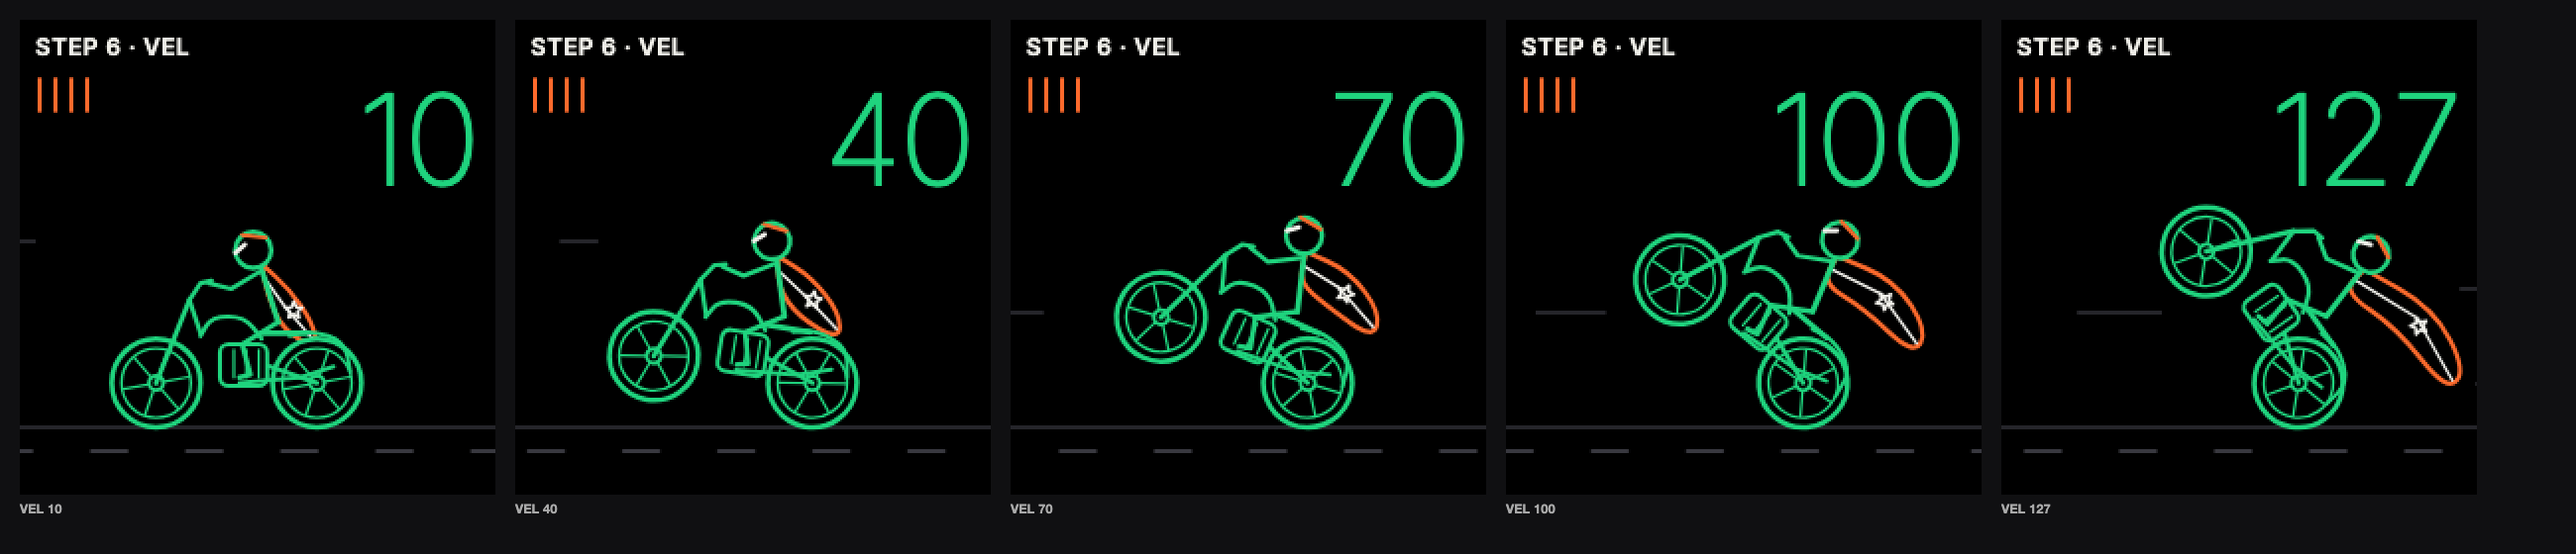
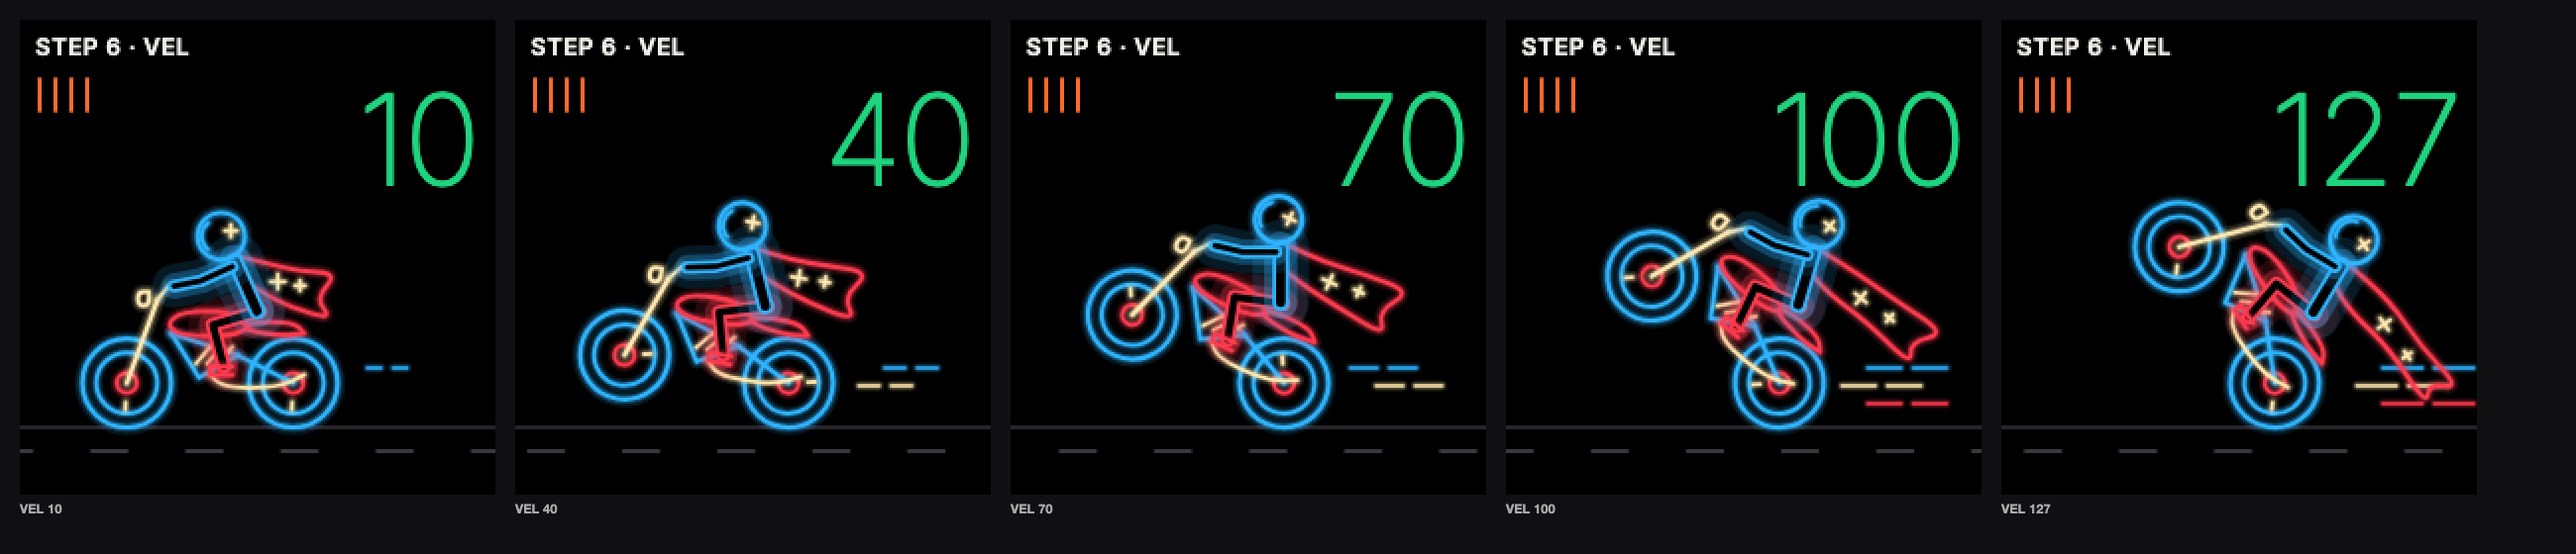
VEL rider mock-up version 2: the neon style of the owner's reference, riding left

diff --git a/mockups/fizz-vel-rider.html b/mockups/fizz-vel-rider.html
@@ -4,6 +4,7 @@
 <meta charset="utf-8">
 <meta name="viewport" content="width=device-width, initial-scale=1">
 <title>FIZZ velocity rider</title>
+<!-- version 2 (2026-10-21): the neon style of the owner's reference, png/fizz-vel-rider-reference.png, riding left -->
 <!-- FIZZ: the VEL picture as a caped stunt motorcyclist (the owner, 2026-10-21, in place of the squirrel): both wheels on
      the road at low velocity, the front lifting into a wheelie as the velocity rises, the steepest at 127; the cape
      droops when slow and streams flat when fast; the road dashes and the speed lines run with the velocity.
@@ -38,57 +39,92 @@ function circ(c, x, y, r, col, lw = 1.6, fill = null) { c.save(); c.beginPath();
   if (col) { c.strokeStyle = col; c.lineWidth = lw; c.stroke(); } c.restore(); }
 function star(c, x, y, r, col) { const p = []; for (let k = 0; k < 10; k++) { const a = -Math.PI / 2 + k * Math.PI / 5, rr = k % 2 ? r * 0.45 : r; p.push(x + Math.cos(a) * rr, y + Math.sin(a) * rr); } path(c, p, col, 1.1, true); }
 
-function wheel(c, x, y, spin, col) {                  /* a spoked wheel, turning */
-  circ(c, x, y, 16, col, 1.8, C.bg); circ(c, x, y, 12.5, col, 1); circ(c, x, y, 2.6, col, 1.4);
-  for (let k = 0; k < 6; k++) { const a = spin + k * TAU / 6; path(c, [x + Math.cos(a) * 3, y + Math.sin(a) * 3, x + Math.cos(a) * 12, y + Math.sin(a) * 12], col, 0.9); }
+/* the neon look (the owner's reference, mockups/png/fizz-vel-rider-reference.png): blue bike and helmet, red cape and
+   legs, cream engine, fork and stars; every line glows (two wide faint strokes under the line itself) */
+const N = { blue: '#2fb4ff', red: '#ff3b4f', cream: '#ffe7b0' };
+function glowStroke(c, col, lw, draw) {
+  [[lw * 3.4, 0.14], [lw * 2.0, 0.3], [lw, 1]].forEach(([w, a]) => {
+    c.save(); c.globalAlpha *= a; c.strokeStyle = col; c.lineWidth = w; c.lineCap = 'round'; c.lineJoin = 'round';
+    c.beginPath(); draw(); c.stroke(); c.restore(); });
 }
-/* the bike and rider in their own frame: the rear hub at (0, 0), the front hub at (58, 0), the road at y = 16.
-   u: the velocity 0..1 (the cape's flow), t: time */
-function rider(c, u, t, col) {
+function nLine(c, pts, col, lw = 1.5) { glowStroke(c, col, lw, () => { c.moveTo(pts[0], pts[1]); for (let i = 2; i < pts.length; i += 2) c.lineTo(pts[i], pts[i + 1]); }); }
+function nCirc(c, x, y, r, col, lw = 1.5) { glowStroke(c, col, lw, () => c.arc(x, y, r, 0, TAU)); }
+function nArc(c, x, y, r, a0, a1, col, lw = 1.5) { glowStroke(c, col, lw, () => c.arc(x, y, r, a0, a1)); }
+function nCurve(c, pts, col, lw = 1.5, close = false) {
+  const n = pts.length / 2, P = i => [pts[(i % n) * 2], pts[(i % n) * 2 + 1]];
+  glowStroke(c, col, lw, () => { c.moveTo(...P(0));
+    for (let i = 0; i < (close ? n : n - 1); i++) { const [x0, y0] = P(i), [x1, y1] = P(i + 1); c.quadraticCurveTo(x0, y0, (x0 + x1) / 2, (y0 + y1) / 2); }
+    if (!close) c.lineTo(...P(n - 1)); else c.closePath(); });
+}
+/* a limb as a neon tube: a wide line in its colour with a black core, so it reads as two parallel lines */
+function nTube(c, pts, col, w = 5.2) {
+  nLine(c, pts, col, w);
+  c.save(); c.strokeStyle = C.bg; c.lineWidth = w - 2.6; c.lineCap = 'round'; c.lineJoin = 'round';
+  c.beginPath(); c.moveTo(pts[0], pts[1]); for (let i = 2; i < pts.length; i += 2) c.lineTo(pts[i], pts[i + 1]); c.stroke(); c.restore();
+}
+function sparkle(c, x, y, r, col) { nLine(c, [x - r, y, x + r, y], col, 1.2); nLine(c, [x, y - r, x, y + r], col, 1.2); }
+
+function wheel(c, x, y, spin) {                       /* two blue rings, a red hub; a cream tick turning on the inner ring */
+  nCirc(c, x, y, 16, N.blue, 1.6); nCirc(c, x, y, 11, N.blue, 1.4); nCirc(c, x, y, 3.6, N.red, 1.4);
+  nLine(c, [x + Math.cos(spin) * 7, y + Math.sin(spin) * 7, x + Math.cos(spin) * 9.5, y + Math.sin(spin) * 9.5], N.cream, 1.3);
+}
+/* the bike and rider in their own frame, facing right: the rear hub at (0, 0), the front hub at (60, 0), the road at
+   y = 16. u: the velocity 0..1, t: time */
+function rider(c, u, t) {
   const flow = lerp(0.15, 1, u), flap = Math.sin(t * (6 + 10 * u)) * (1 + 3 * u);
-  /* the cape, behind everything: from the shoulders, drooping when slow, streaming flat and waving when fast */
-  const sx = 19, sy = -41, L = 34 + 16 * u;
-  const tipX = sx - L * (0.35 + 0.65 * flow), tipY = sy + L * (1 - flow) * 0.9 + flap;
-  const midX = (sx + tipX) / 2, midY = (sy + tipY) / 2 - 4 * flow + flap * 0.6;
-  curve(c, [sx + 1, sy - 2, midX, midY - 6, tipX, tipY - 7, tipX - 2, tipY + 3, midX + 2, midY + 9, sx - 1, sy + 9], C.k4, 1.6, true, C.bg);
-  path(c, [sx, sy + 3, midX + 1, midY + 1, tipX, tipY - 1], C.k3, 1);              /* a white stripe down it */
-  star(c, midX - 2, midY + 2, 3.2, C.k3);
-  /* the bike */
-  wheel(c, 0, 0, -t * (4 + 30 * u), col); wheel(c, 58, 0, -t * (4 + 30 * u), col);
-  curve(c, [-12, -4, -10, -15, 2, -19, 10, -17], col, 1.4);                         /* the rear fender */
-  path(c, [0, 0, 20, -7], col, 1.6);                                                 /* the swingarm */
-  c.save(); c.beginPath(); c.roundRect(18, -14, 17, 15, 3); c.fillStyle = C.bg; c.fill(); c.strokeStyle = col; c.lineWidth = 1.5; c.stroke(); c.restore();   /* the engine */
-  for (let k = 0; k < 3; k++) path(c, [21 + k * 4.5, -12, 21 + k * 4.5, -2], col, 0.9);
-  path(c, [28, 0, 6, -2, -6, -6], col, 1.4);                                         /* the exhaust */
-  curve(c, [20, -16, 26, -24, 38, -24, 42, -17], col, 1.6, false, null);            /* the tank */
-  path(c, [4, -18, 20, -18], col, 2);                                                /* the seat */
-  path(c, [58, 0, 46, -30], col, 1.8);                                               /* the fork, raked */
-  path(c, [42, -18, 46, -30, 42, -36, 38, -37], col, 1.6);                           /* the bars, high */
-  /* the rider: a leg to the peg, the body leaning in, arms to the bars, the helmet with its stripe and visor */
-  path(c, [14, -22, 27, -14, 24, -3, 28, -2], col, 1.8);                             /* thigh, shin, boot */
-  path(c, [14, -22, 20, -41], col, 2);                                               /* the back */
-  path(c, [21, -40, 31, -34, 39, -36], col, 1.6);                                    /* the arm */
-  circ(c, 23, -48, 6.5, col, 1.7, C.bg);                                             /* the helmet */
-  path(c, [18.5, -52.5, 27, -53.5], C.k4, 1.4);                                      /* its stripe */
-  path(c, [26, -50, 29.5, -47], C.k3, 1.6);                                          /* the visor */
+  /* the cape, behind everything: a flag from the shoulders streaming back at shoulder height, its end forked; slow it
+     hangs a little and is short, fast it is long, flat and waving; two cream sparkles on it */
+  const sx = 20, sy = -43, L = 30 + 26 * u, sag = (1 - u) * 14;
+  const w1 = Math.sin(t * (5 + 9 * u)) * (1 + 2.5 * u), w2 = Math.sin(t * (5 + 9 * u) + 1.7) * (1.5 + 3 * u);
+  const ex = sx - L, ey = sy + sag;                                  /* the far end's middle */
+  nCurve(c, [sx + 1, sy - 3,                                         /* the top edge, back from the neck */
+             sx - L * 0.35, sy - 5 + sag * 0.3 + w1, sx - L * 0.7, sy - 6 + sag * 0.7 + w2,
+             ex - 4, ey - 9 + w2,                                    /* the upper point of the fork */
+             ex + 4, ey - 1 + w1 * 0.5,                              /* the notch */
+             ex - 2, ey + 6 + w1,                                    /* the lower point */
+             sx - L * 0.6, sy + 5 + sag * 0.75 + w1, sx - L * 0.25, sy + 6 + sag * 0.3,
+             sx - 1, sy + 5], N.red, 1.5, true);
+  sparkle(c, sx - L * 0.45, sy + sag * 0.45 + w1 * 0.5, 2.6, N.cream);
+  sparkle(c, sx - L * 0.7, sy - 1 + sag * 0.7 + w2 * 0.5, 1.8, N.cream);
+  /* the bike: wheels, the blue frame, the red tank and seat, the cream engine fins, exhaust, fork and lamp */
+  const spin = t * (3 + 26 * u);
+  wheel(c, 0, 0, spin); wheel(c, 60, 0, spin);
+  nLine(c, [0, 0, 20, -10, 44, -18], N.blue, 1.5);                       /* swingarm and backbone */
+  nLine(c, [44, -18, 34, -2, 20, -10], N.blue, 1.5);                     /* the down tube */
+  nCurve(c, [16, -20, 22, -26, 40, -26, 46, -21, 40, -17, 22, -17], N.red, 1.5, true);   /* the tank */
+  nCurve(c, [-4, -18, 0, -22, 16, -22, 18, -19, 4, -17], N.red, 1.5, true);              /* the seat */
+  for (let k = 0; k < 3; k++) nLine(c, [22 + k * 4, -13, 27 + k * 4, -7], N.cream, 1.2);   /* the fins */
+  nCurve(c, [30, -3, 26, 1, 16, 2, 4, 1, -4, -3], N.cream, 1.3);         /* the exhaust */
+  nLine(c, [60, 0, 49, -30], N.cream, 1.6);                              /* the fork */
+  nLine(c, [49, -30, 45, -35, 41, -35], N.cream, 1.4);                   /* the bars */
+  nCurve(c, [52, -33, 56, -33, 56, -28, 52, -28], N.cream, 1.4, true);   /* the lamp */
+  /* the rider: red legs as tubes, a red boot, the blue body and arm, the blue helmet with a star and its visor */
+  nTube(c, [12, -26, 29, -21, 25, -6], N.red);
+  nLine(c, [22, -6, 30, -6, 30, -3, 22, -3], N.red, 1.4);
+  nTube(c, [13, -26, 21, -44], N.blue, 6);
+  nTube(c, [22, -42, 33, -37, 43, -35], N.blue, 4.6);
+  nCirc(c, 26, -53, 8.5, N.blue, 1.6);
+  nArc(c, 27, -53, 6, -0.9, 0.9, N.blue, 1.3);
+  sparkle(c, 22.5, -55, 2.2, N.cream);
 }
 
 function screen(c, vel, t, o = {}) {                 /* the rider faces left: the front wheel lifts on the left */
   c.fillStyle = C.bg; c.fillRect(0, 0, 240, 240);
   T(c, 'STEP 6 · VEL', 8, 18, { s: 12, w: 600, ls: 0.8, col: C.k3 });
   const u = clamp(vel / 127, 0, 1), pitch = Math.pow(clamp((u - 0.12) / 0.88, 0, 1), 1.15) * (55 * Math.PI / 180);
-  const gy = 206, rx = 150, k = 1.4;                  /* the road's height, the rear wheel's contact, the scale */
+  const gy = 206, rx = 138, k = 1.4;                  /* the road's height, the rear wheel's contact, the scale */
   /* the road: its edge and dashes running past (to the right) at the speed */
   path(c, [0, gy, 240, gy], C.g2, 1.2);
   const sp = 20 + 260 * u;
   for (let i = 0; i < 6; i++) { const x = (((t * sp) + i * 48) % 288) - 24; path(c, [x, gy + 12, x + 18, gy + 12], C.g2, 1.6); }
-  /* speed lines streaming behind (right of) the rider, more and longer with the velocity */
-  const n = Math.round(1 + 6 * u);
-  for (let i = 0; i < n; i++) { const y = 112 + i * 12, x = ((t * sp * 1.4 + i * 67) % 260) - 20, L = 8 + 34 * u;
-    if (x > 40 && x < 210 && y > 100) continue; path(c, [x, y, x + L, y], C.g2, 1); }
+  /* speed lines behind (right of) the rear wheel: dashed, blue, cream and red, more and longer with the velocity */
+  const n = 1 + Math.round(2 * u), L = 6 + 14 * u, cols = [N.blue, N.cream, N.red];
+  for (let i = 0; i < 3; i++) { if (i >= n) break;
+    const y = gy - 30 + i * 9 - (pitch > 0.4 ? 0 : 0), run = (t * sp * 0.6 + i * 13) % 26;
+    for (let d = 0; d < 2; d++) { const x = rx + 30 + run + d * (L + 6); nLine(c, [x, y, x + L, y], cols[i], 1.4); } }
   /* the wheelie: the bike turns about its rear axle (the wheel stays on the road); mirrored so it rides left */
   c.save(); c.translate(rx, gy - 16 * k); c.rotate(pitch); c.scale(-k, k);
-  rider(c, u, t, C.vel); c.restore();
+  rider(c, u, t); c.restore();
   T(c, String(vel), 232, 84, { s: 64, w: 200, col: C.vel, al: 'right' });
   for (let i = 0; i < 4; i++) path(c, [10 + i * 8, 30, 10 + i * 8, 46], C.k4, 2);      /* the ramp's ticks */
 }

diff --git a/PLAN.md b/PLAN.md
@@ -1084,6 +1084,10 @@ P1.5c).
   VEL 15, 55 degrees at 127); the cape (orange, a white stripe and a star) droops when slow and streams flat and waves
   when fast; the wheels spin, the road dashes and the speed lines run right with the velocity. The value big top
   right, the ramp's ticks top left.
+  **Neon (the owner's second reference, `mockups/png/fizz-vel-rider-reference.png`)**: blue bike, wheels (two rings, a
+  red hub) and helmet (a star, a visor), red cape (a forked flag streaming back at shoulder height, two cream sparkles)
+  and legs (tubes: a line with a black core), cream engine fins, exhaust, fork and lamp; every line glows (two wide
+  faint strokes under it); dashed speed lines in blue, cream and red behind the rear wheel.
 
 ### The clarity rules (the owner, 2026-10-19: "strong visually, powerful gesture based, and not require the user to be squinting all the time")
 
